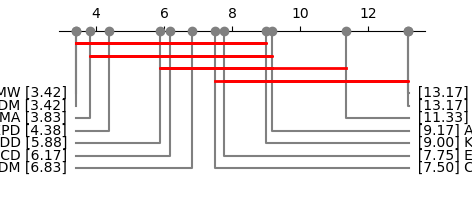
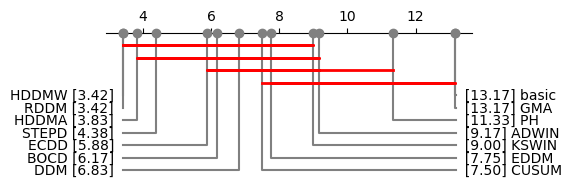
Evaluation of the results

diff --git a/statistical_test_abrupt.py b/statistical_test_abrupt.py
@@ -7,7 +7,8 @@ Created on Thu Oct 12 15:14:08 2023
 
 from evaluation.statistical_tests import get_avg_rank_synth, print_CD_diagram
 
-data, avg_rank = get_avg_rank_synth('accuracy_mean',sizes=['10K'],ascending=False,ensemble=False,gradual=False)
+#10K synthetic datasets
+data, avg_rank = get_avg_rank_synth('accuracy_mean',sizes=['10K'],ascending=False,gradual=False)
 print_CD_diagram(data, avg_rank, 'plots/CD_abrupt_10K.png')
 
 data, avg_rank = get_avg_rank_synth('accuracy_mean',sizes=['10K'],ascending=False,ensemble=False,ht=False,gradual=False)
@@ -15,3 +16,19 @@ print_CD_diagram(data, avg_rank, 'plots/CD_abrupt_10K_NB.png')
 
 data, avg_rank = get_avg_rank_synth('accuracy_mean',sizes=['10K'],ascending=False,ensemble=False,nb=False,gradual=False)
 print_CD_diagram(data, avg_rank, 'plots/CD_abrupt_10K_HT.png')
+
+#data, avg_rank = get_avg_rank_synth('accuracy_mean',sizes=['10K'],ascending=False,nb=False,ht=False,gradual=False)
+#print_CD_diagram(data, avg_rank, 'plots/CD_abrupt_10K_BOLE.png')
+
+#20K synthetic datasets
+data, avg_rank = get_avg_rank_synth('accuracy_mean',sizes=['20K'],ascending=False,gradual=False)
+print_CD_diagram(data, avg_rank, 'plots/CD_abrupt_20K.png')
+
+data, avg_rank = get_avg_rank_synth('accuracy_mean',sizes=['20K'],ascending=False,ensemble=False,ht=False,gradual=False)
+print_CD_diagram(data, avg_rank, 'plots/CD_abrupt_20K_NB.png')
+
+data, avg_rank = get_avg_rank_synth('accuracy_mean',sizes=['20K'],ascending=False,ensemble=False,nb=False,gradual=False)
+print_CD_diagram(data, avg_rank, 'plots/CD_abrupt_20K_HT.png')
+
+#data, avg_rank = get_avg_rank_synth('accuracy_mean',sizes=['20K'],ascending=False,nb=False,ht=False,gradual=False)
+#print_CD_diagram(data, avg_rank, 'plots/CD_abrupt_20K_BOLE.png')

diff --git a/evaluation/statistical_tests.py b/evaluation/statistical_tests.py
@@ -256,7 +256,7 @@ def print_CD_diagram(data,avg_rank,fname:str,titel:str=""):
                                    label_props={'color':'black'},
                                    crossbar_props={'color':'red'},
                                    elbow_props={'color':'gray'})
-    #plt.savefig(fname)
+    plt.savefig(fname,bbox_inches='tight')
     plt.show()
 
     
